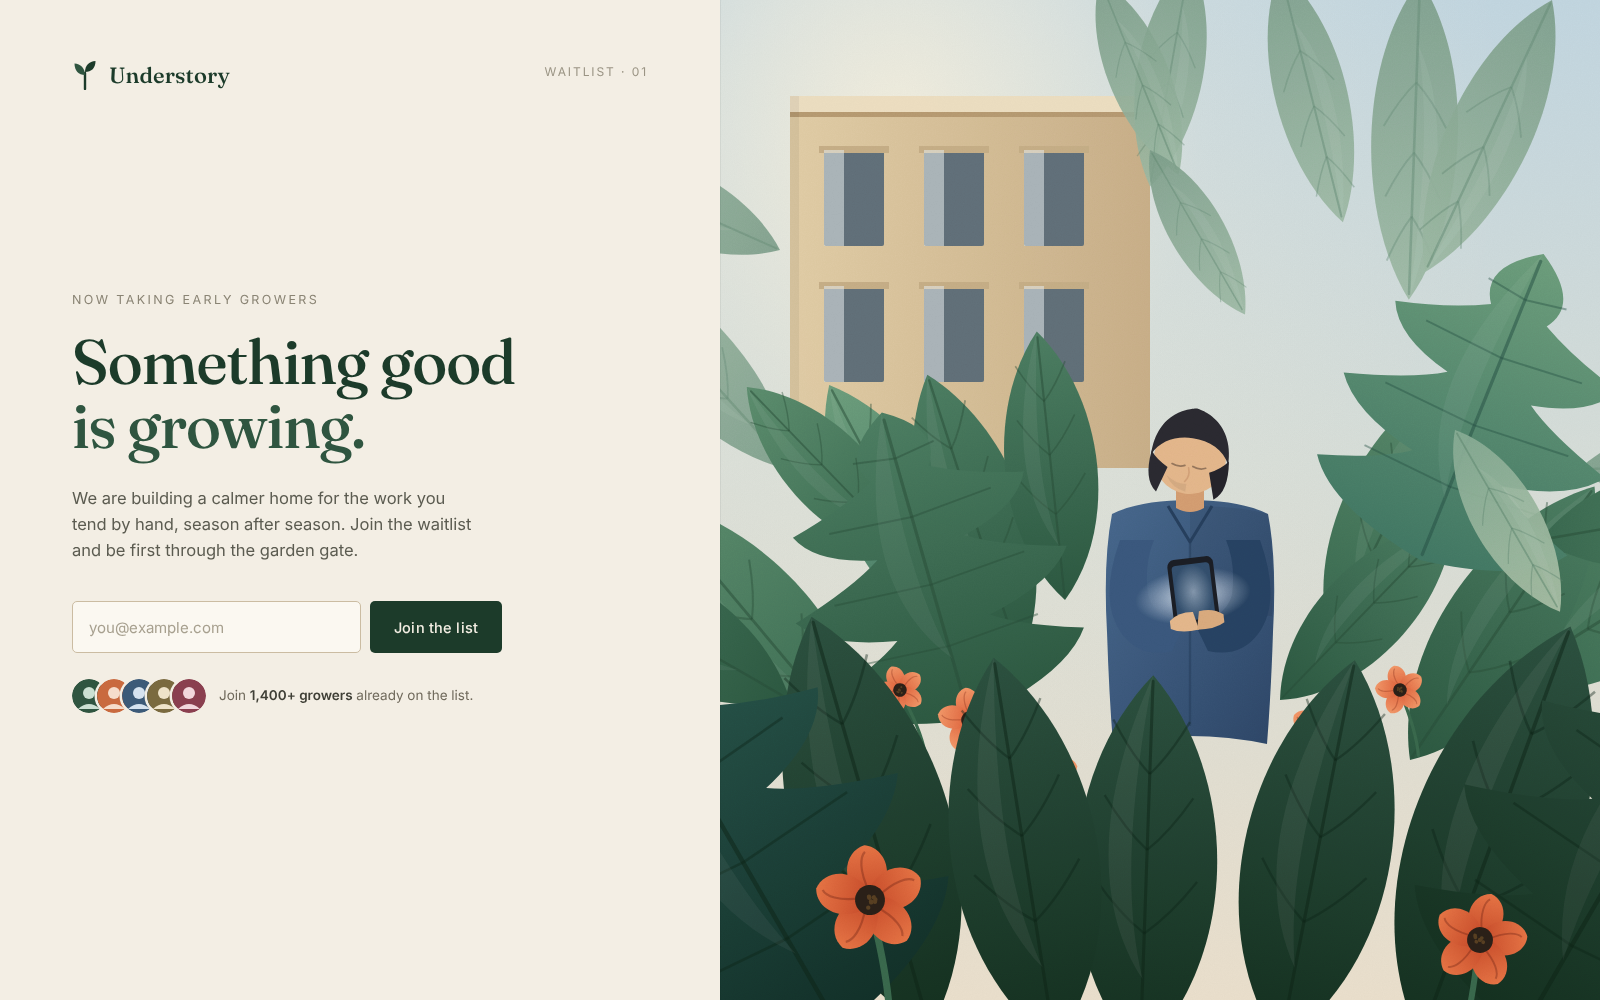
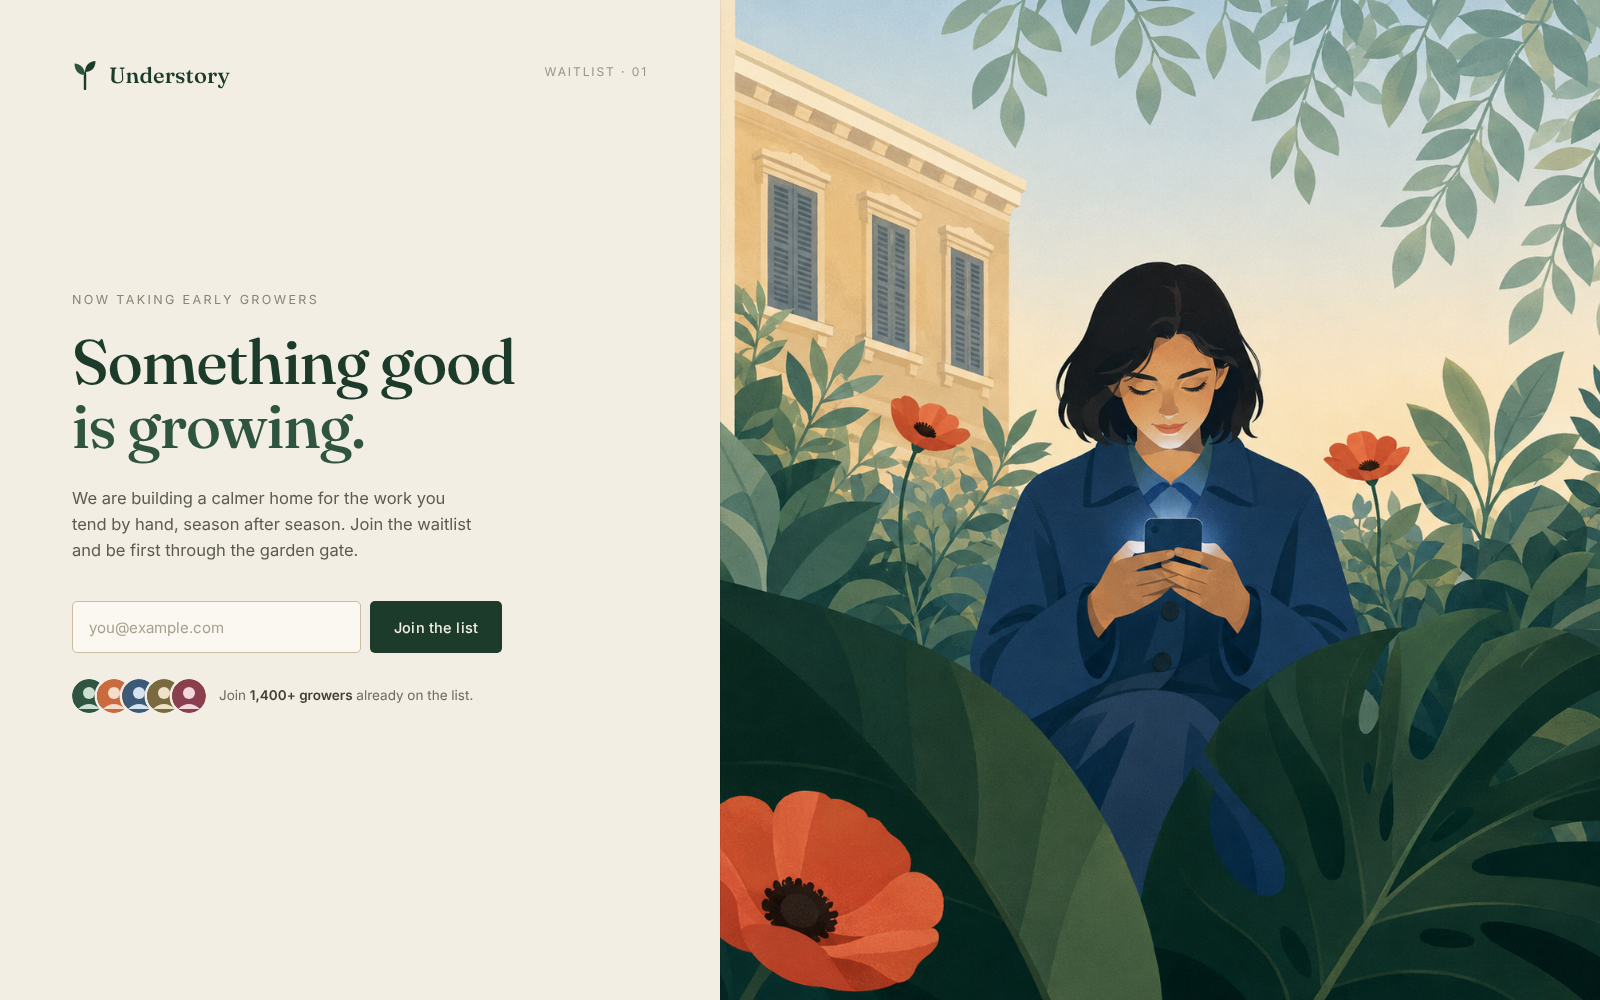
Composite generated hero art into Screen 1
Drop the GPT Image 2 hero illustration into the right panel full bleed
(object-fit cover, centered), retina-scaled. The hand-built SVG scene stays
in the markup as a fallback beneath the image; the feTurbulence grain moves
to a code layer on top of the raster so it matches the rest of the page. The
export __ready gate now also waits for the image to load.

Claude-Session: https://claude.ai/code/session_01EafaZvQYCyajWKtfo6xgbY

diff --git a/waitlist-hero/screen-1-waitlist.html b/waitlist-hero/screen-1-waitlist.html
@@ -49,9 +49,12 @@ button{height:52px;padding:0 24px;font:inherit;font-weight:500;font-size:14.5px;
 .trust b{color:#3f3f36;font-weight:600}
 
 /* ---- right illustration ---- */
-.right{position:relative;width:880px;height:100%}
-.right svg.illo{position:absolute;inset:0;width:100%;height:100%;display:block}
-.seam{position:absolute;top:0;left:0;width:1px;height:100%;background:rgba(0,0,0,.05)}
+.right{position:relative;width:880px;height:100%;overflow:hidden}
+.right .illo{position:absolute;inset:0;width:100%;height:100%;display:block}
+.right .art{position:absolute;inset:0;width:100%;height:100%;display:block;
+  object-fit:cover;object-position:center}
+.right .grain{position:absolute;inset:0;width:100%;height:100%;pointer-events:none}
+.seam{position:absolute;top:0;left:0;width:1px;height:100%;background:rgba(0,0,0,.05);z-index:2}
 </style>
 
 <div class="frame" id="frame">
@@ -223,6 +226,12 @@ button{height:52px;padding:0 24px;font:inherit;font-weight:500;font-size:14.5px;
       <g id="flowers"></g>
       <g id="fgleaves"></g>
 
+    </svg>
+    <!-- generated art (full bleed); SVG above is the fallback if it fails to load -->
+    <img class="art" id="art" src="art/hero-illustration.png" alt=""
+         onerror="this.style.display='none'">
+    <!-- grain kept in code, layered on top of the image -->
+    <svg class="grain" viewBox="0 0 880 1000" preserveAspectRatio="none" aria-hidden="true">
       <rect width="880" height="1000" filter="url(#grain)" opacity=".05"
             style="mix-blend-mode:overlay"/>
       <rect width="880" height="1000" filter="url(#grain)" opacity=".035"
@@ -366,5 +375,10 @@ splitLeaf(fg,{x:800,y:1035,rot:30,len:430,wid:185,fill:"url(#lfFg)",vein:"#0d241
 flower(fg,{x:150,y:900,r:44,grad:"url(#petalFg)",dark:"#6a1f10",rot:-6});
 flower(fg,{x:760,y:940,r:38,grad:"url(#petalFg)",dark:"#6a1f10",rot:14});
 
-document.fonts.ready.then(()=>{requestAnimationFrame(()=>{window.__ready=true;});});
+const _art=document.getElementById("art");
+const _imgReady=(_art&&!_art.complete)
+  ?new Promise(r=>{_art.addEventListener("load",r);_art.addEventListener("error",r);})
+  :Promise.resolve();
+Promise.all([document.fonts.ready,_imgReady]).then(()=>{
+  requestAnimationFrame(()=>{window.__ready=true;});});
 </script>

diff --git a/waitlist-hero/README.md b/waitlist-hero/README.md
@@ -20,17 +20,20 @@ sprout beside the wordmark.
 
 ## The image
 
-The right half is a single composed SVG scene (viewBox 880x1000) with real back-to-front
-depth: a graduated dawn sky and soft top-left light; a cropped classical building
-fragment; a canopy of desaturated fronds hanging from the top edge (atmospheric
-perspective); midground foliage with per-leaf gradient modelling and veins, mixing
-almond and tropical split-leaf shapes; a figure absorbed in their phone with a warm
-screen-glow lighting the hands and chin; coral poppies; and oversized, darker,
-higher-contrast foreground leaves. An feTurbulence film grain sits over everything.
+The right half carries the identity: a flat-vector editorial illustration of a person
+absorbed in their phone among oversized foliage, a cropped classical building fragment,
+coral poppies and a dawn sky, with real back-to-front depth and a cool phone-screen glow
+on the hands and chin. It is generated externally (GPT Image 2) to prompts authored in
+`asset-prompts.md` using the palette sampled from this page, then dropped in full bleed
+(`object-fit: cover`, centered). A hand-built SVG version of the same scene remains in the
+markup as a fallback if the raster fails to load, and the feTurbulence film grain stays in
+code, layered on top of the image so it matches the rest of the page.
 
 ## Files
 
-- `screen-1-waitlist.html` — self-contained 1600x1000 frame (fonts embedded)
+- `screen-1-waitlist.html` — 1600x1000 frame (fonts embedded; references `art/`)
+- `art/hero-illustration.png` — generated hero illustration (1254x1254)
+- `asset-prompts.md` — GPT Image 2 generation prompts + sampled palette
 - `export.cjs` — headless render via Playwright + system Chromium
 - `screen-1-waitlist.png` — 3200x2000 export
 
